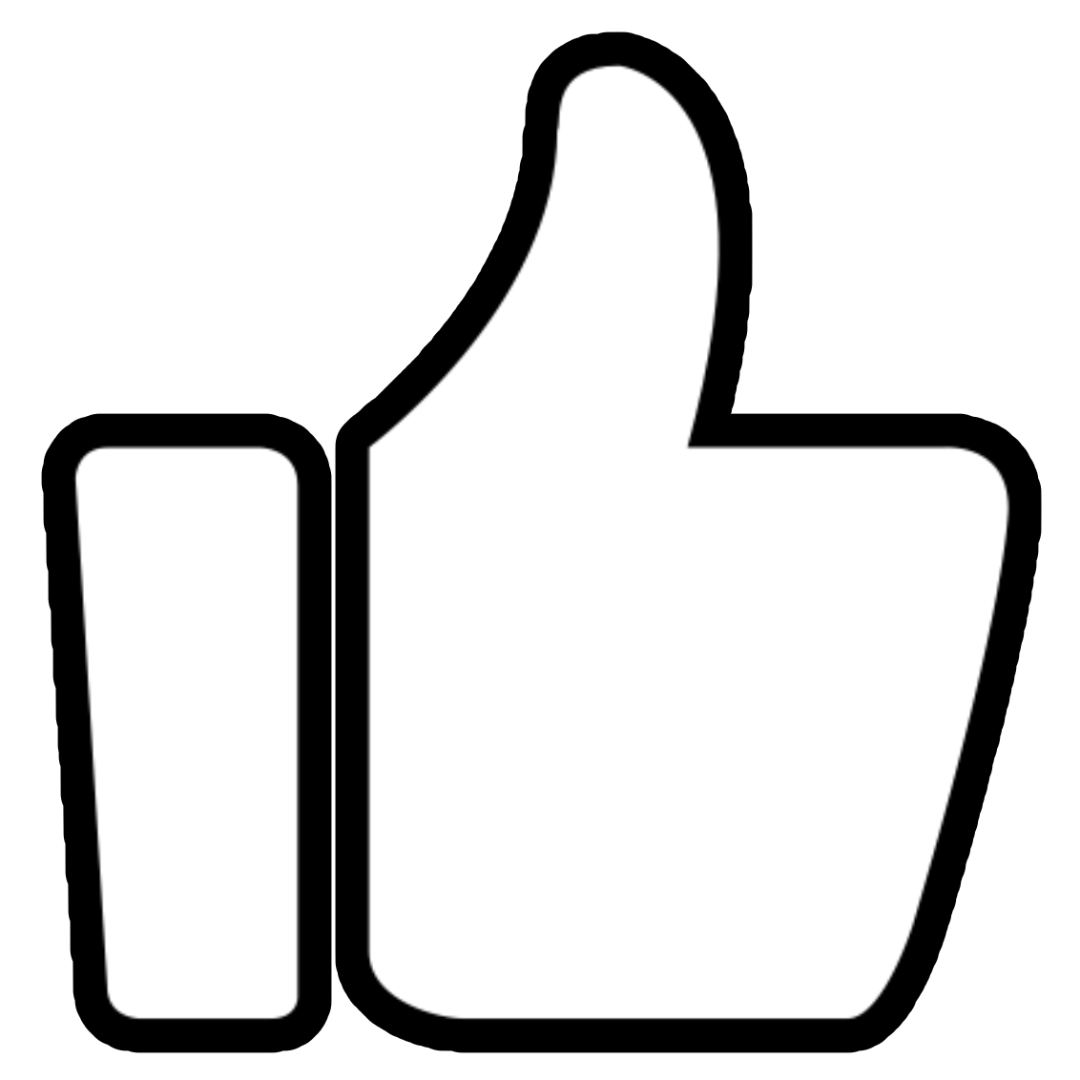
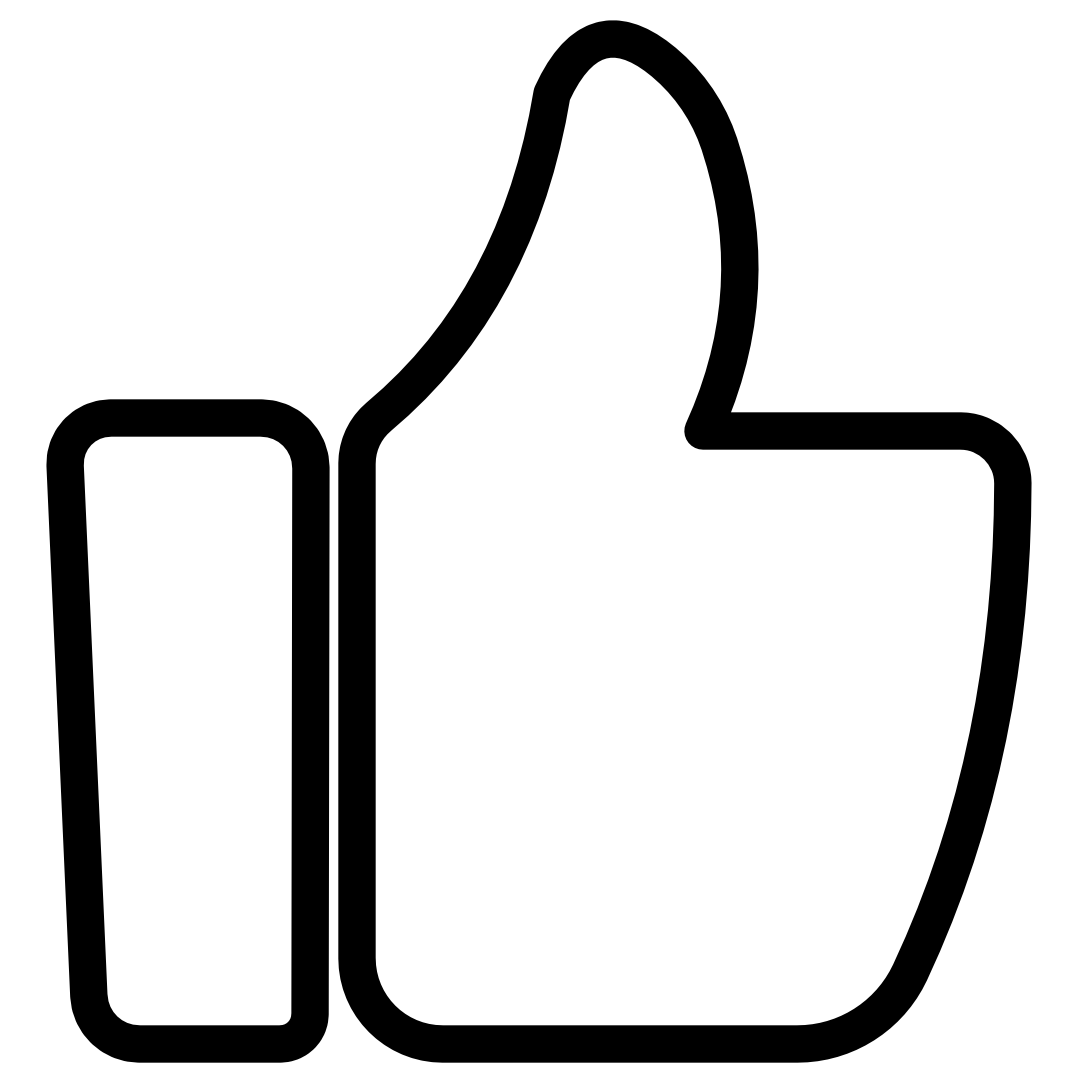
Upvote blue setup start

diff --git a/src/components/ExplorePage/ExplorePage.tsx b/src/components/ExplorePage/ExplorePage.tsx
@@ -4,6 +4,8 @@ import categoryBTN from '../../assets/categoryBTN.png';
 import regionBTN from '../../assets/regionBTN.png';
 import topRankedBTN from '../../assets/topRankedBTN.png';
 import upvotePhoto from '../../assets/upvotePhoto.png';
+import upvotePhotoBlue from '../../assets/upvotePhoto-blue.png';
+
 import TextField from '@material-ui/core/TextField';
 import InputLabel from '@material-ui/core/InputLabel';
 import FormControl from '@material-ui/core/FormControl';
@@ -125,7 +127,7 @@ const ThePost = (props: { post: SuggestedPosts }) => {
                     <td><div id="photoTD" style={{ background: `url(${props.post.imgProduct})` }}></div></td>
                 </tr>
                 <tr>
-                    <td id="upvoteBTN"><button  ><img id="upvotePhoto" src={props.post.imgUpvote} alt={props.post.alt} /></button></td>
+                    <td id="upvoteBTN"><button><img id="upvotePhoto" src={props.post.imgUpvote} alt={props.post.alt} /></button></td>
                     <td id="countTD"><h4 id="count">{props.post.upvoteCount}</h4></td>
                 </tr>
             </table>
@@ -195,6 +197,8 @@ export default class ExplorePage extends React.Component<{}, ExplorePageStates> 
         this.forceUpdate();
     }
 
+   
+
     filterResults = async () => {
         this.topResults = [];
         await axios.get("http://localhost:5000/dishes").then(
@@ -218,6 +222,7 @@ export default class ExplorePage extends React.Component<{}, ExplorePageStates> 
 
     render() {
 
+        
         if (this.isLoading) return <div></div>;
 
         return (
@@ -276,7 +281,7 @@ export default class ExplorePage extends React.Component<{}, ExplorePageStates> 
                                     <div className="underFilterTable">
                                         <FormControl>
                                             <InputLabel shrink htmlFor="select-multiple-native">
-                                                Choose a Region
+                                                Choose One
                                     </InputLabel>
                                             <List>
                                                 {pueblos.map((pueblo, index) => (
@@ -284,7 +289,7 @@ export default class ExplorePage extends React.Component<{}, ExplorePageStates> 
                                                         button
                                                         key={index}
                                                         selected={pueblo === this.state.puebloName}
-                                                        style={{ height: '30px', width: '90%' }}
+                                                        // style={{ height: '30px', width: '90%' }}
                                                         onClick={() => { this.setState({ puebloName: pueblo });
                                                         this.filterResults(); }}>
                                                         {pueblo}
@@ -303,7 +308,7 @@ export default class ExplorePage extends React.Component<{}, ExplorePageStates> 
                                     <div className="underFilterTable">
                                         <FormControl>
                                             <InputLabel shrink htmlFor="select-multiple-native">
-                                                Choose a Category
+                                                Choose One
                                     </InputLabel>
                                             <List>
                                                 {this.categoryMap.map((categoria) => (
@@ -311,7 +316,7 @@ export default class ExplorePage extends React.Component<{}, ExplorePageStates> 
                                                         button
                                                         key={categoria.cid}
                                                         selected={categoria.name === this.state.categoryName}
-                                                        style={{ height: '30px', width: '90%' }}
+                                                        // style={{ height: '30px', width: '98%' }}
                                                         onClick={() => { this.setState({ categoryName: categoria.name }) }}>
                                                         {categoria.name}
                                                     </ListItem>

diff --git a/src/components/ExplorePage/ExplorePage.css b/src/components/ExplorePage/ExplorePage.css
@@ -47,9 +47,14 @@ padding-left: 1%;
     padding-left: 10px;
 }
 
+label{
+    width: 100%;
+}
+
 .underFilterTable{
     border: 0.5px solid gray;
     text-align: center;
+    overflow: scroll;
 }
 
 FormControl{
